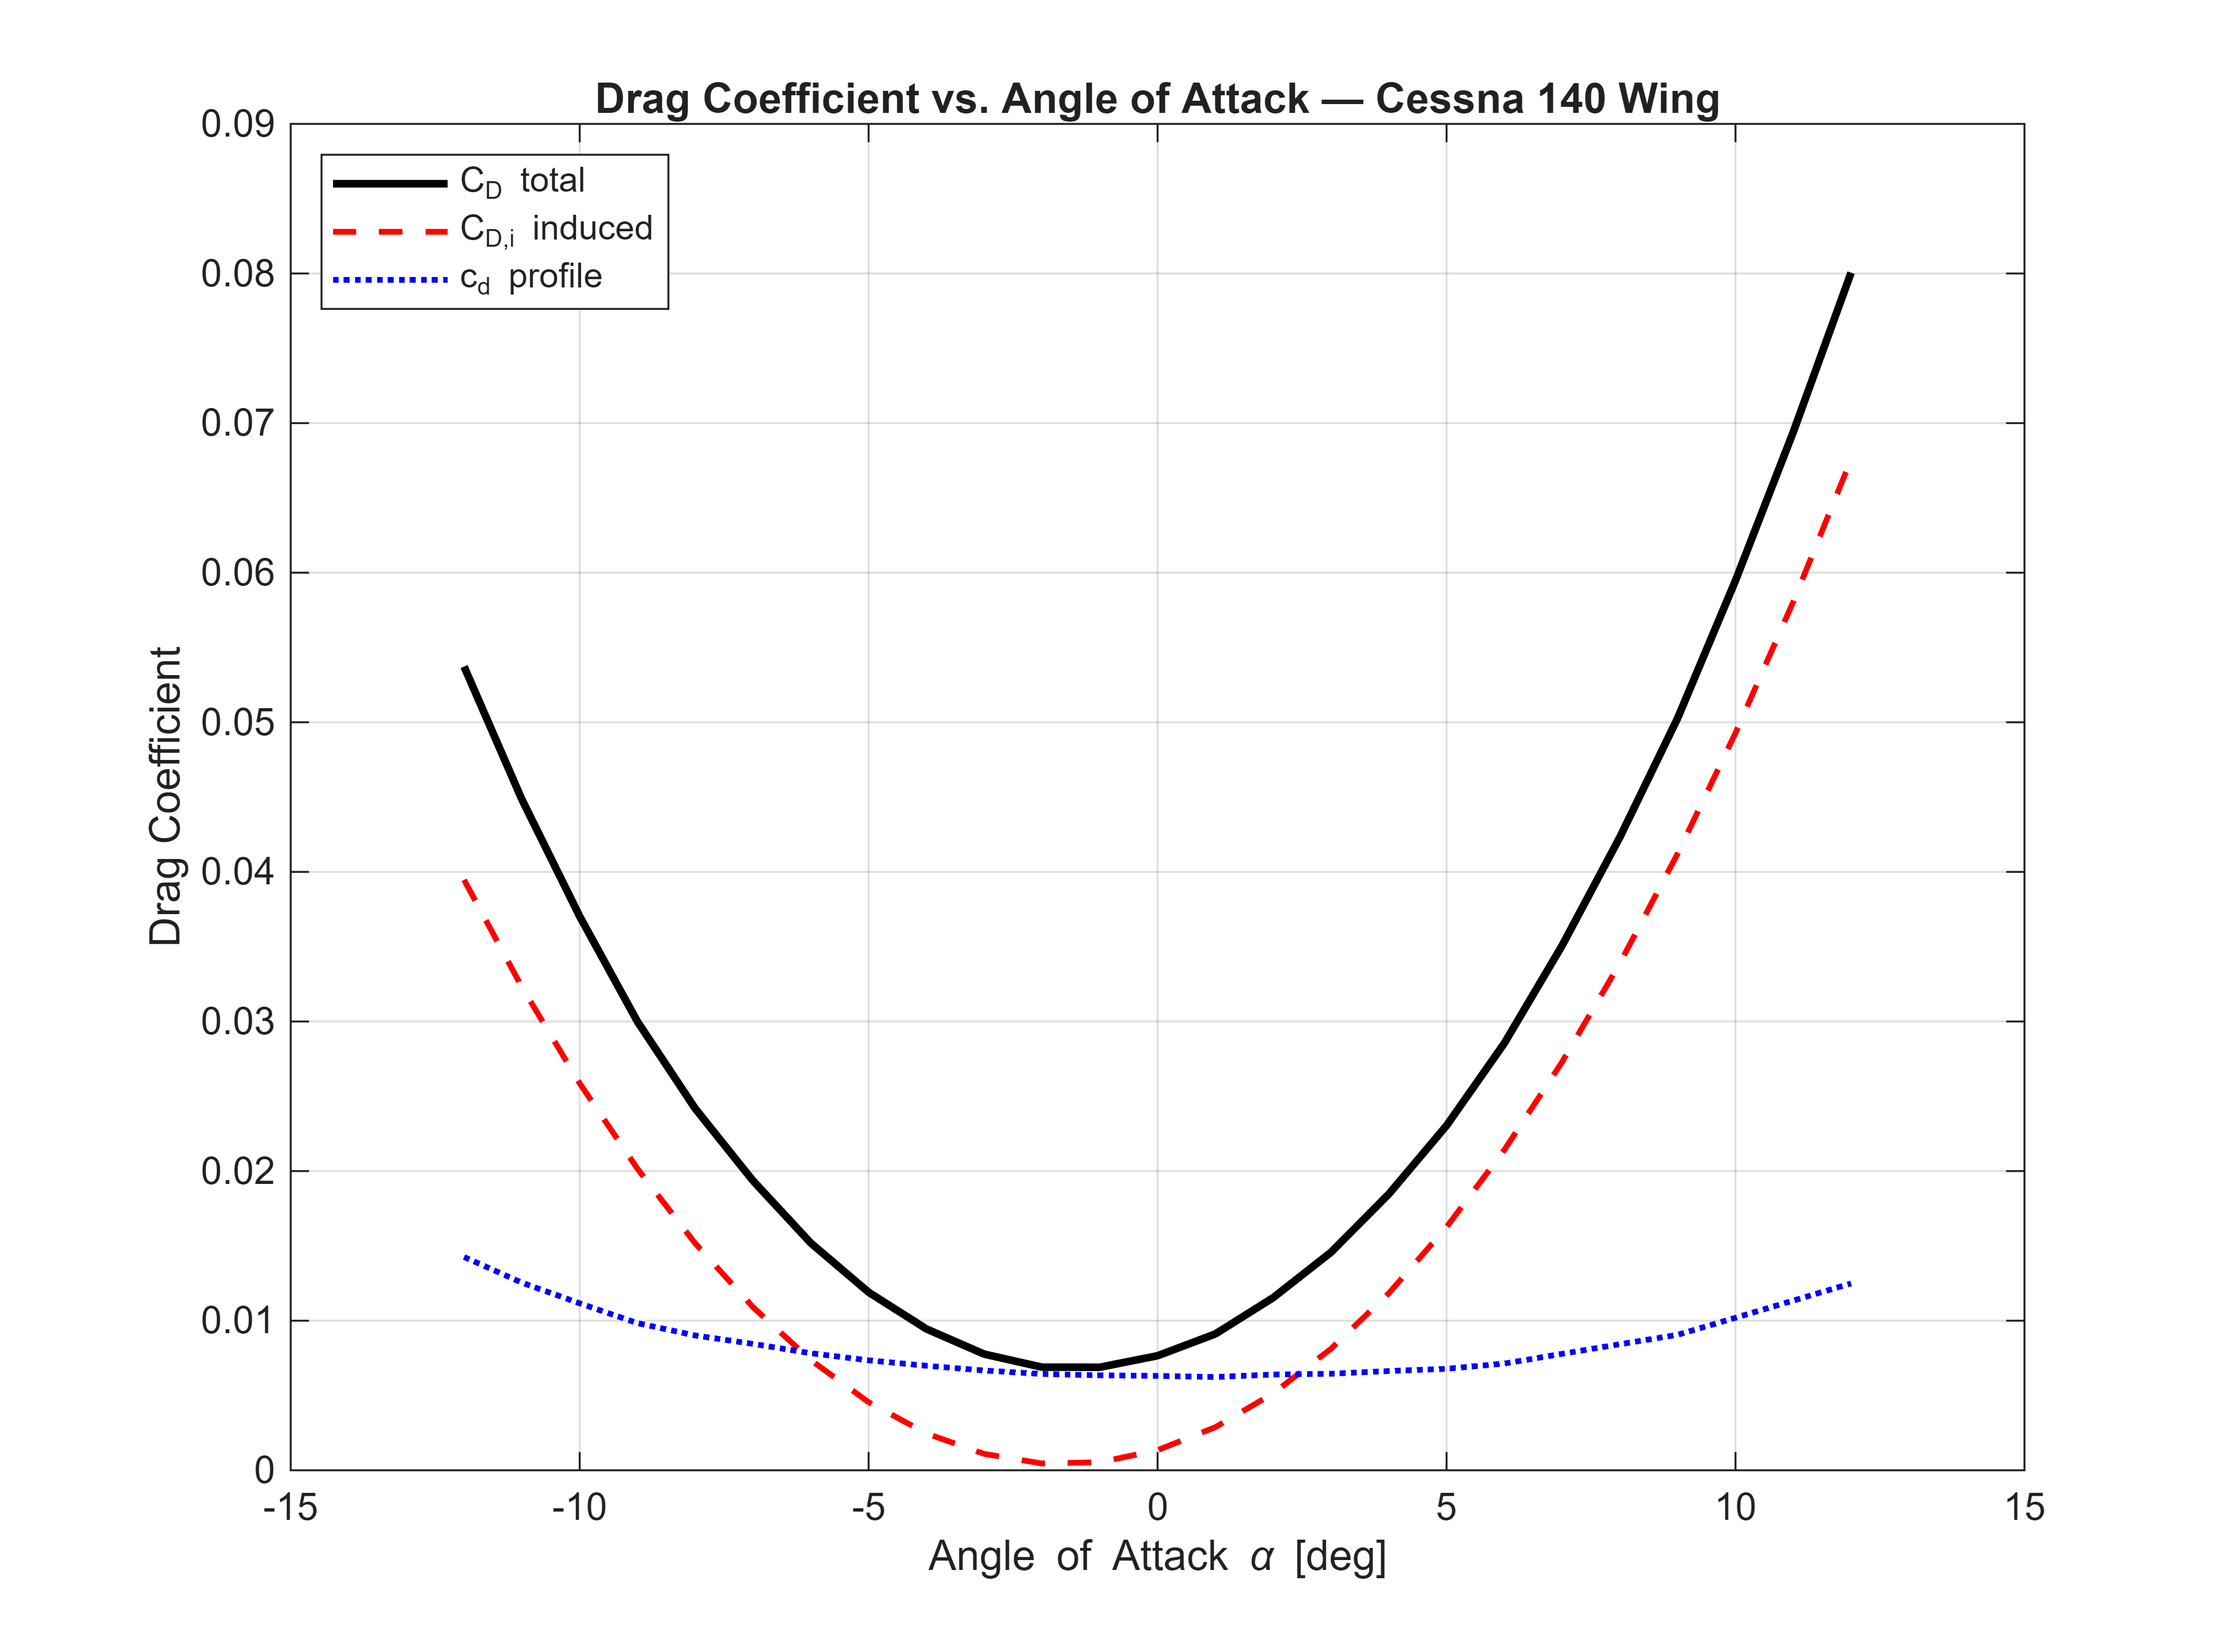
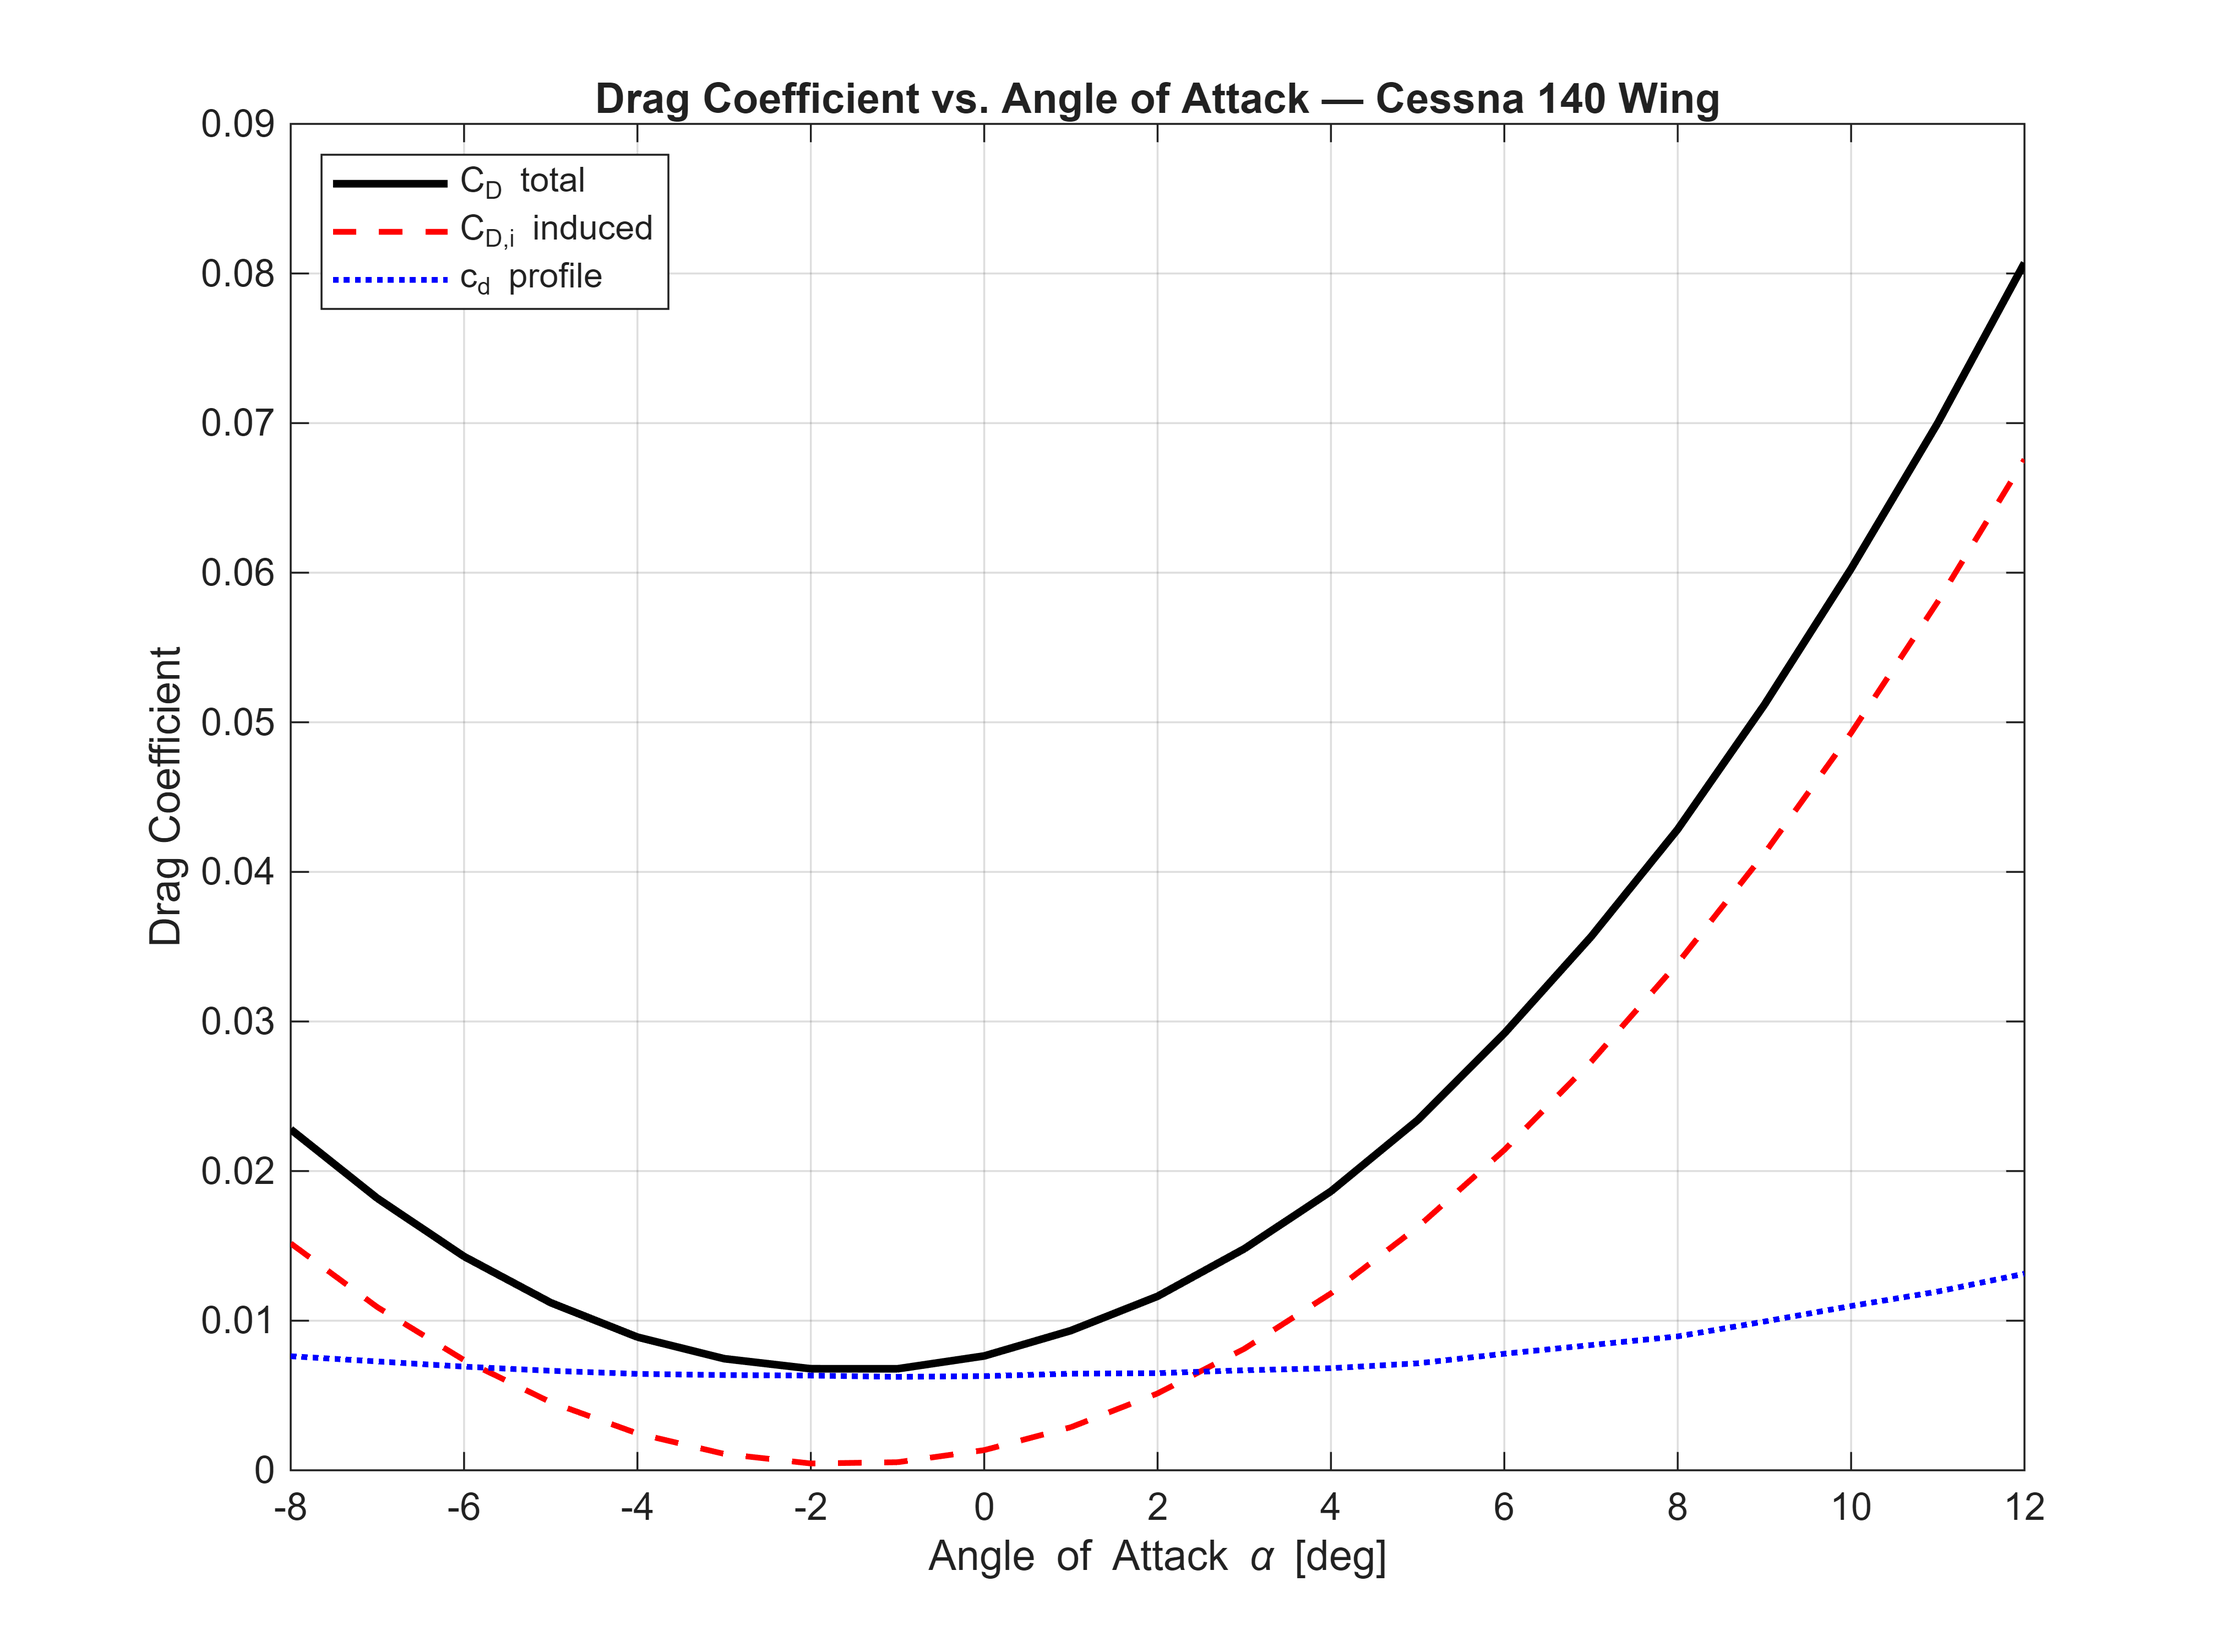
fixes

diff --git a/Main_Lab3_Parts1and2.m b/Main_Lab3_Parts1and2.m
@@ -516,26 +516,18 @@ for k = 1:length(alphas)
     CL_0012(k) = Vortex_Panel(xb_0012, yb_0012, v_inf, alphas(k)); % find different CL values at different angle of attack values over a range using VP method
 end
 
-p_0012   = polyfit(alpha_rad, CL_0012, 1); % use polyfit to find coefficients for use in finding lift slope and alpha_L0
-a0_t     = p_0012(1);                % lift slope [1/rad]
-aero_t   = (-p_0012(2)/p_0012(1)) * (180/pi); % zero-lift AoA [deg]
-
-
-% display lift slopes and AoAs
-fprintf('--- Sectional Properties from Vortex Panel ---\n');
-fprintf('NACA 2412 (root): a0 = %.4f /rad,  aL0 = %.4f deg\n', a0_r, aero_r);
-fprintf('NACA 0012 (tip):  a0 = %.4f /rad,  aL0 = %.4f deg\n', a0_t, aero_t);
-
+p_0012 = polyfit(alpha_rad, CL_0012, 1); % use polyfit to find coefficients for use in finding lift slope and alpha_L0
+a0_t = p_0012(1);   % lift slope [1/rad]
+aero_t = (-p_0012(2)/p_0012(1)) * (180/pi); % zero-lift AoA [deg]
 
 % Convergence Study
-N_accurate = 201; % pick high term to calculate accurrate vals to compare 
+N_accurate = 101; % pick high term to calculate accurrate vals to compare 
 N_terms_vec = 1:2:51;   % N vals to test
 [~, CL_ref, CDi_ref, ~] = PLLT(b, a0_t, a0_r, c_t, c_r, aero_t, aero_r, (geo_t+alpha_wing), (geo_r + alpha_wing), N_accurate);
 
-% Preallocate CL and CDi vectors for the convergence study
+% Preallocate CL and CDi vectors for the convergence loop
 CL_conv  = zeros(size(N_terms_vec));
 CDi_conv = zeros(size(N_terms_vec));
-
 
 for idx = 1:length(N_terms_vec)
     N_odd = N_terms_vec(idx);
@@ -544,11 +536,11 @@ for idx = 1:length(N_terms_vec)
 end
 
 
-% Relative error vs reference --> converted to percentages by multiplying by 100 [%]
+% Relative error vs reference as percent difference
 err_CL  = abs((CL_conv  - CL_ref) / CL_ref)  * 100;
 err_CDi = abs((CDi_conv - CDi_ref)/ CDi_ref) * 100;
 
-% Find first N where error falls below each threshold
+% Find first N where error is below each threshold
 thresholds = [10, 1, 0.1]; % note that because previous error values are multiplied by 100, these values are then also in [%]
 thresh_labels = {'10%', '1%', '0.1%'};
 
@@ -556,14 +548,14 @@ N_conv_CL  = zeros(1,3);
 N_conv_CDi = zeros(1,3);
 
 for j = 1:3
-    % find returns indices — take the first one below threshold
+    % find the first val below threshold
     idx_CL  = find(err_CL  < thresholds(j), 1, 'first');
     idx_CDi = find(err_CDi < thresholds(j), 1, 'first');
     N_conv_CL(j)  = N_terms_vec(idx_CL);
     N_conv_CDi(j) = N_terms_vec(idx_CDi);
 end
 
-% --- Convergence Table ---
+% Deliverable 1: Convergence Table
 fprintf('\n--- Convergence Table (alpha = 4 deg) ---\n');
 fprintf('%-12s | %-10s %-12s | %-10s %-12s\n', ...
         'Threshold','N (CL)','CL','N (CDi)','CDi');
@@ -576,7 +568,7 @@ for j = 1:3
         N_conv_CDi(j), CDi_conv(i_CDi));
 end
 
-% --- Convergence Plots ---
+% Deliverable 2: Convergence Plots
 
 figure();
 
@@ -586,7 +578,7 @@ for j = 1:3
     xline(N_conv_CL(j), '--', 'Color', colors_thresh{j}, 'LineWidth', 1.2, ...
           'Label', thresh_labels{j}, 'LabelVerticalAlignment', 'bottom');
 end
-xlabel('Number of Odd Terms in Series');
+xlabel('Number of Odd Terms');
 ylabel('C_L');
 title('C_L Convergence vs. Number of Odd Terms');
 legend('C_L', '10% error', '1% error', '0.1% error', 'Location', 'east');
@@ -598,7 +590,7 @@ for j = 1:3
     xline(N_conv_CDi(j), '--', 'Color', colors_thresh{j}, 'LineWidth', 1.2, ...
           'Label', thresh_labels{j}, 'LabelVerticalAlignment', 'bottom');
 end
-xlabel('Number of Odd Terms in Series');
+xlabel('Number of Odd Terms');
 ylabel('C_{D,i}');
 title('C_{D,i} Convergence vs. Number of Odd Terms');
 legend('C_{D,i}', '10% error', '1% error', '0.1% error', 'Location', 'east');
@@ -606,120 +598,92 @@ grid on;
 
 print('D2_convergence', '-dpng', '-r500');
 
-%% -------------------------------------------------------
-%  Cruise Performance
-%  Standard atmosphere at 10,000 ft, 100 knots
-% -------------------------------------------------------
+%  Find L, Di and L/D with standard atmosphere at 10,000 ft, 100 knots
 
-% Standard atmosphere — 10,000 ft converted to meters
-alt_m = 10000 * 0.3048;   % 3048 m
-T0=288.15; P0=101325; rho0=1.225; L_rate=0.0065; R=287.05; g=9.81;
-T_cruise   = T0 - L_rate*alt_m;
-rho_cruise = rho0 * (T_cruise/T0)^(g/(L_rate*R) - 1);  % [kg/m^3]
+alt_m = 10000;
+% standard atmosphere density 
+rho = .001756; %slugs/ft^3
+V_cruise = 100 * 1.68781;   % knots to ft/s 
 
-V_cruise = 100 * 0.51444;   % 100 knots → m/s
+q_inf = 0.5 * rho * V_cruise^2;  % dynamic pressure [Pa]
 
-% Convert planform area to m^2 (was in ft^2)
-S_m2 = S * 0.0929;
-
-q_inf = 0.5 * rho_cruise * V_cruise^2;  % dynamic pressure [Pa]
-
-% Use most restrictive N (worst case between CL and CDi at 0.1% threshold)
+% Use most restrictive N at 0.1% 
 N_use = max(N_conv_CL(3), N_conv_CDi(3));
-fprintf('\nUsing N = %d odd terms for cruise and sweep analysis\n', N_use);
 
-[~, CL_cruise, CDi_cruise, ~] = PLLT(b, a0_t, a0_r, c_t, c_r, ...
-                                       aero_t, aero_r, geo_t, geo_r, N_use);
+[~, CL_cruise, CDi_cruise, ~] = PLLT(b, a0_t, a0_r, c_t, c_r, aero_t, aero_r, geo_t+alpha_wing, geo_r + alpha_wing, N_use);
 
 
 % Read in Data
 data_CD_2412 = load("cd2_2412.mat");
 % Devectorize
 cd_2412_data = data_CD_2412.data(:,2);
-alpha_cd_data_2412 = 10 .* data_CD_2412.data(:,1); % Note that this is actually the CL part of the CL vs. CD graph so this needs to be reconciled to angle of attack or possibly to use sweep angle of attack from earlier
+CL_cd_data_2412 = data_CD_2412.data(:,1); % Note that this is actually the CL part of the CL vs. CD graph so this needs to be reconciled to angle of attack or possibly to use sweep angle of attack from earlier
 
 % Read in Data
 data_CD_0012 = load("cd2_0012.mat");
 % Devectorize
 cd_0012_data = data_CD_0012.data(:,2);
-alpha_cd_data_0012 = 10 .* data_CD_0012.data(:,1); % Note that this is actually the CL part of the CL vs. CD graph so this needs to be reconciled to angle of attack or possibly to use sweep angle of attack from earlier
-% Note, these are of different lengths and thus we must make them the same length to be able to
-% perform future operations on them
-% alpha_cd_data_0012 = alpha_cd_data_0012(1:end-2);
-% cd_0012_data = cd_0012_data(1:end-2);
-
-
-
+CL_cd_data_0012 = data_CD_0012.data(:,1); % Note that this is actually the CL part of the CL vs. CD graph so this needs to be reconciled to angle of attack or possibly to use sweep angle of attack from earlier
 
 % Spanwise average cd
-cd_r_cruise = interp1(alpha_cd_data_2412, cd_2412_data, alpha_wing, 'linear', 'extrap');
-cd_t_cruise = interp1(alpha_cd_data_0012, cd_0012_data, alpha_wing, 'linear', 'extrap');
-cd_avg      = 0.5*(cd_r_cruise + cd_t_cruise);
+cd_r_span = interp1(CL_cd_data_2412, cd_2412_data, CL_cruise, 'linear', 'extrap');
+cd_t_span = interp1(CL_cd_data_0012, cd_0012_data, CL_cruise, 'linear', 'extrap');
+cd_avg = 0.5*(cd_r_span + cd_t_span);
 
 CD_total = cd_avg + CDi_cruise;
 
-% Forces (convert S from ft^2 to m^2 for SI forces)
-L_force  = q_inf * S_m2 * CL_cruise;
-Di_force = q_inf * S_m2 * CDi_cruise;
-D_force  = q_inf * S_m2 * CD_total;
+% calculate forces
+L_force  = q_inf * S * CL_cruise;
+Di_force = q_inf * S * CDi_cruise;
+D_force  = q_inf * S * CD_total;
 LD_ratio = L_force / D_force;
 
-fprintf('\n--- Cruise at 100 kts, 10,000 ft ---\n');
-fprintf('Density:           %.4f kg/m^3\n', rho_cruise);
-fprintf('Airspeed:          %.2f m/s\n',    V_cruise);
-fprintf('Dynamic pressure:  %.2f Pa\n',     q_inf);
-fprintf('CL:                %.4f\n',         CL_cruise);
-fprintf('CDi:               %.6f\n',         CDi_cruise);
-fprintf('cd (profile avg):  %.6f\n',         cd_avg);
-fprintf('CD (total):        %.6f\n',         CD_total);
-fprintf('Lift L:            %.1f N\n',       L_force);
-fprintf('Induced Drag Di:   %.1f N\n',       Di_force);
-fprintf('Total Drag D:      %.1f N\n',       D_force);
+% deliverable 3: table of L, Cdi, and L/D at 100 knots and 10000 feet
+fprintf('Lift L:            %.1f Lb\n',       L_force);
+fprintf('Induced Drag Di:   %.1f Lb\n',       Di_force);
 fprintf('L/D:               %.2f\n',         LD_ratio);
 
-%% -------------------------------------------------------
-%  Drag Breakdown & L/D vs AoA
-% -------------------------------------------------------
-alpha_aoa = -12:1:12;   % [deg] sweep
-CL_sw   = zeros(size(alpha_aoa));
-CDi_sw  = zeros(size(alpha_aoa));
-cd_sw   = zeros(size(alpha_aoa));
-CD_sw   = zeros(size(alpha_aoa));
-LD_sw   = zeros(size(alpha_aoa));
+% Deliverable 4: Drag Plot & L/D for range of AoA vals
+
+alpha_aoa = -8:1:12;   % [deg] sweep
+CL_plot   = zeros(size(alpha_aoa));
+CDi_plot  = zeros(size(alpha_aoa));
+cd_plot   = zeros(size(alpha_aoa));
+CD_plot   = zeros(size(alpha_aoa));
+LD_plot   = zeros(size(alpha_aoa));
 
 for k = 1:length(alpha_aoa)
-    % Update geo_r to reflect wing AoA (geo_t stays 0 due to washout)
+   
     geo_r_k = geo_r + alpha_aoa(k);   % root incidence + wing AoA
     geo_t_k = geo_t + alpha_aoa(k);   % tip incidence + wing AoA
 
-    [~, CL_sw(k), CDi_sw(k), ~] = PLLT(b, a0_t, a0_r, c_t, c_r, ...
-                                         aero_t, aero_r, geo_t_k, geo_r_k, N_use);
+    [~, CL_plot(k), CDi_plot(k), ~] = PLLT(b, a0_t, a0_r, c_t, c_r, aero_t, aero_r, geo_t_k, geo_r_k, N_use);
 
     % Profile drag at each AoA — spanwise average
-    cd_r_k  = interp1(alpha_cd_data_2412, cd_2412_data, alpha_aoa(k), 'linear', 'extrap');
-    cd_t_k  = interp1(alpha_cd_data_0012, cd_0012_data, alpha_aoa(k), 'linear', 'extrap');
-    cd_sw(k) = 0.5*(cd_r_k + cd_t_k);
-    CD_sw(k) = cd_sw(k) + CDi_sw(k);
-    LD_sw(k) = CL_sw(k) / CD_sw(k);
+    cd_r_k  = interp1(CL_cd_data_2412, cd_2412_data, CL_plot(k), 'linear', 'extrap');
+    cd_t_k  = interp1(CL_cd_data_0012, cd_0012_data, CL_plot(k), 'linear', 'extrap');
+    cd_plot(k) = 0.5*(cd_r_k + cd_t_k);
+    CD_plot(k) = cd_plot(k) + CDi_plot(k);
+    LD_plot(k) = CL_plot(k) / CD_plot(k);
 end
 
-% --- Drag breakdown ---
-figure('Name','D4 — Drag Breakdown');
-plot(alpha_aoa, CD_sw,  'k-',  'LineWidth', 2,   'DisplayName', 'C_D total'); hold on;
-plot(alpha_aoa, CDi_sw, 'r--', 'LineWidth', 1.5, 'DisplayName', 'C_{D,i} induced');
-plot(alpha_aoa, cd_sw,  'b:',  'LineWidth', 1.5, 'DisplayName', 'c_d profile');
+% drag profile
+figure();
+plot(alpha_aoa, CD_plot,  'k-',  'LineWidth', 2,   'DisplayName', 'C_D total'); hold on;
+plot(alpha_aoa, CDi_plot, 'r--', 'LineWidth', 1.5, 'DisplayName', 'C_{D,i} induced');
+plot(alpha_aoa, cd_plot,  'b:',  'LineWidth', 1.5, 'DisplayName', 'c_d profile');
 xlabel('Angle of Attack \alpha [deg]');
 ylabel('Drag Coefficient');
 title('Drag Coefficient vs. Angle of Attack — Cessna 140 Wing');
 legend('Location', 'northwest'); grid on;
 print('D4_drag_breakdown', '-dpng', '-r500');
 
-% --- L/D ---
-figure('Name','D5 — Aerodynamic Efficiency');
-plot(alpha_aoa, LD_sw, 'b-', 'LineWidth', 2);
+% L/D plot
+figure();
+plot(alpha_aoa, LD_plot, 'b-', 'LineWidth', 2);
 xlabel('Angle of Attack \alpha [deg]');
 ylabel('L/D');
-title('Aerodynamic Efficiency L/D vs. Angle of Attack — Cessna 140 Wing');
+title('L/D vs. Angle of Attack');
 grid on;
 print('D5_LD_ratio', '-dpng', '-r500');
 
